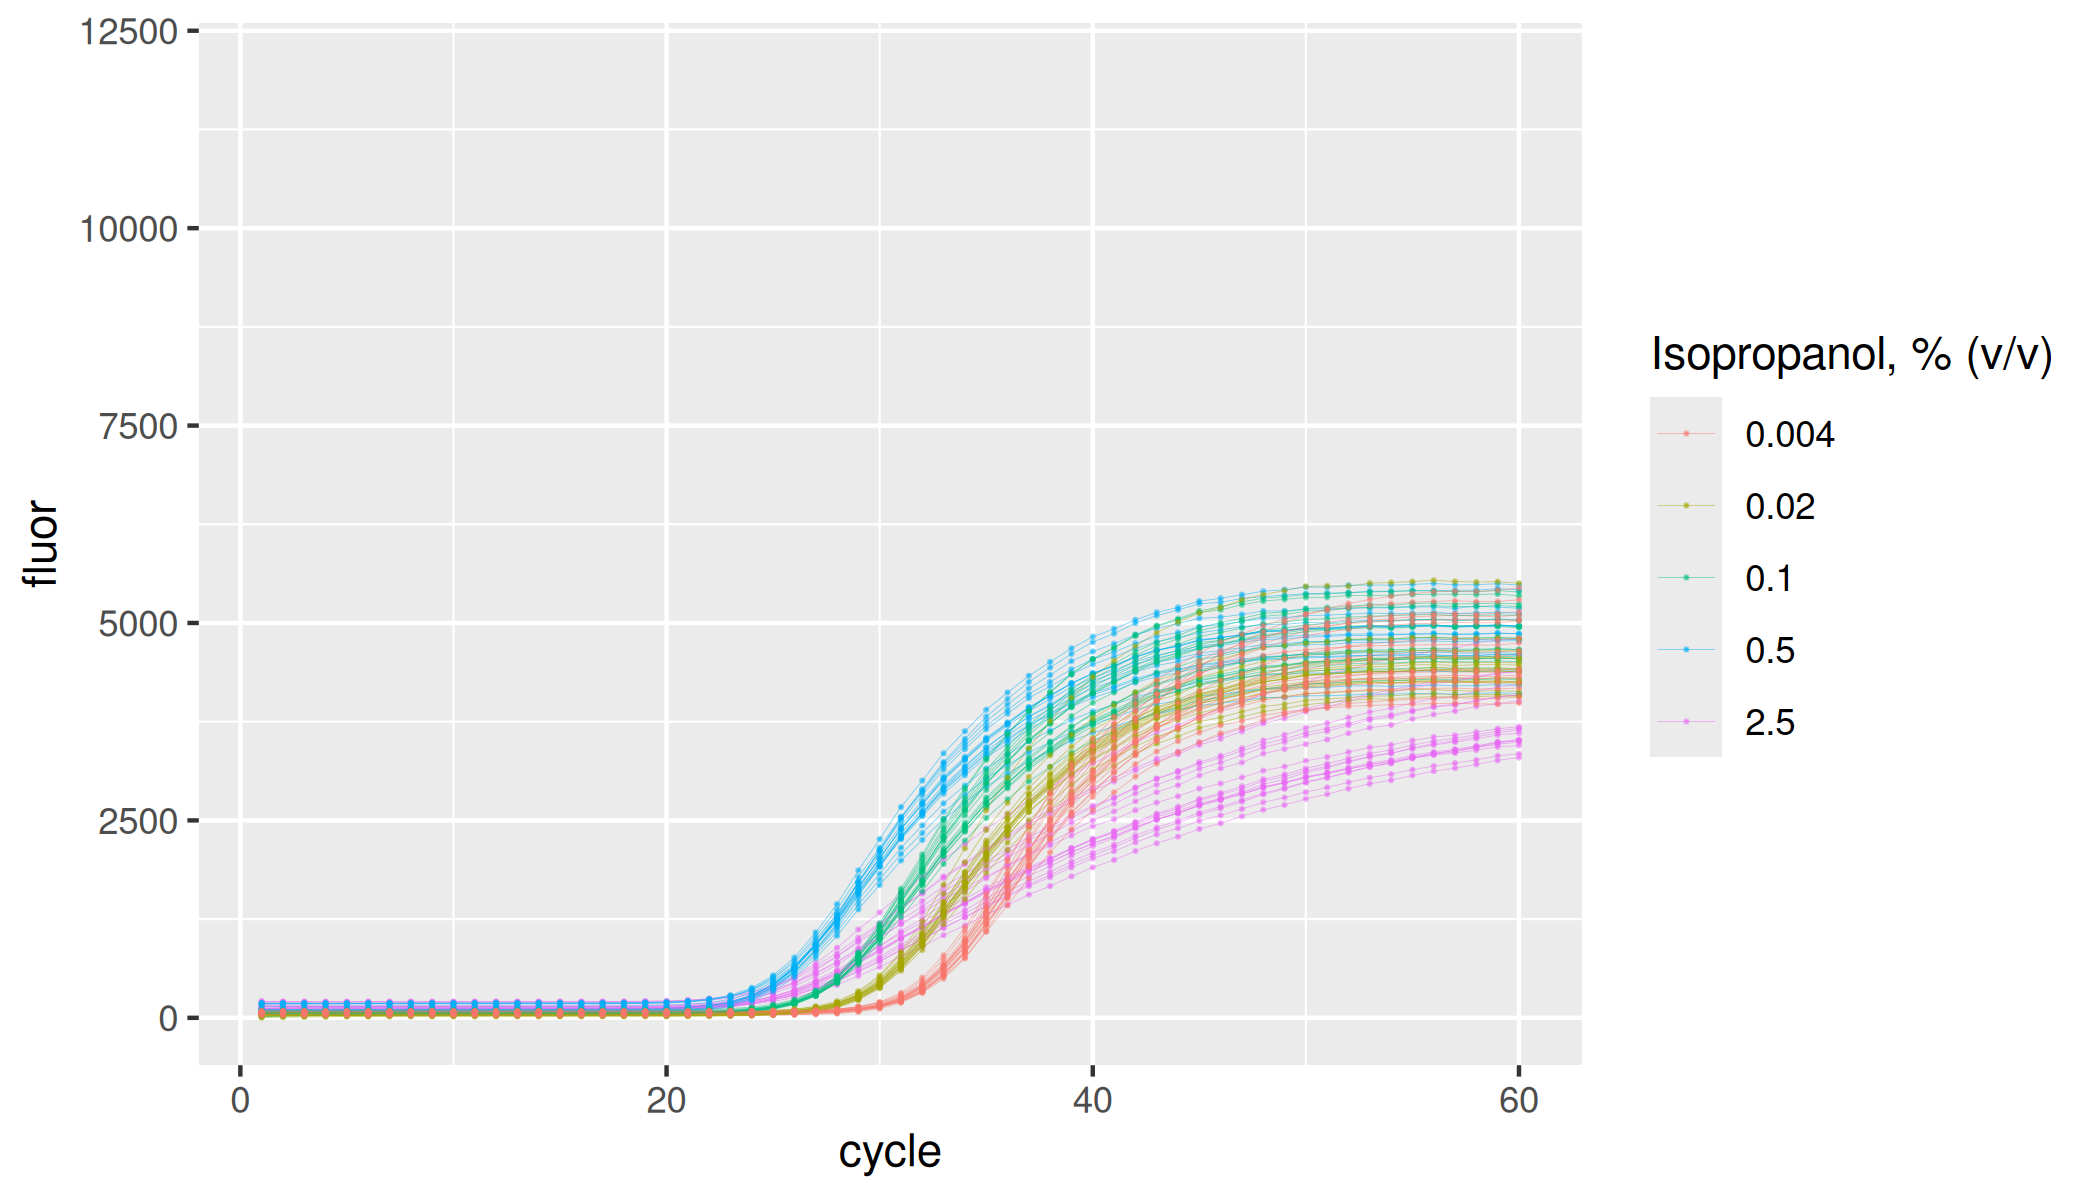
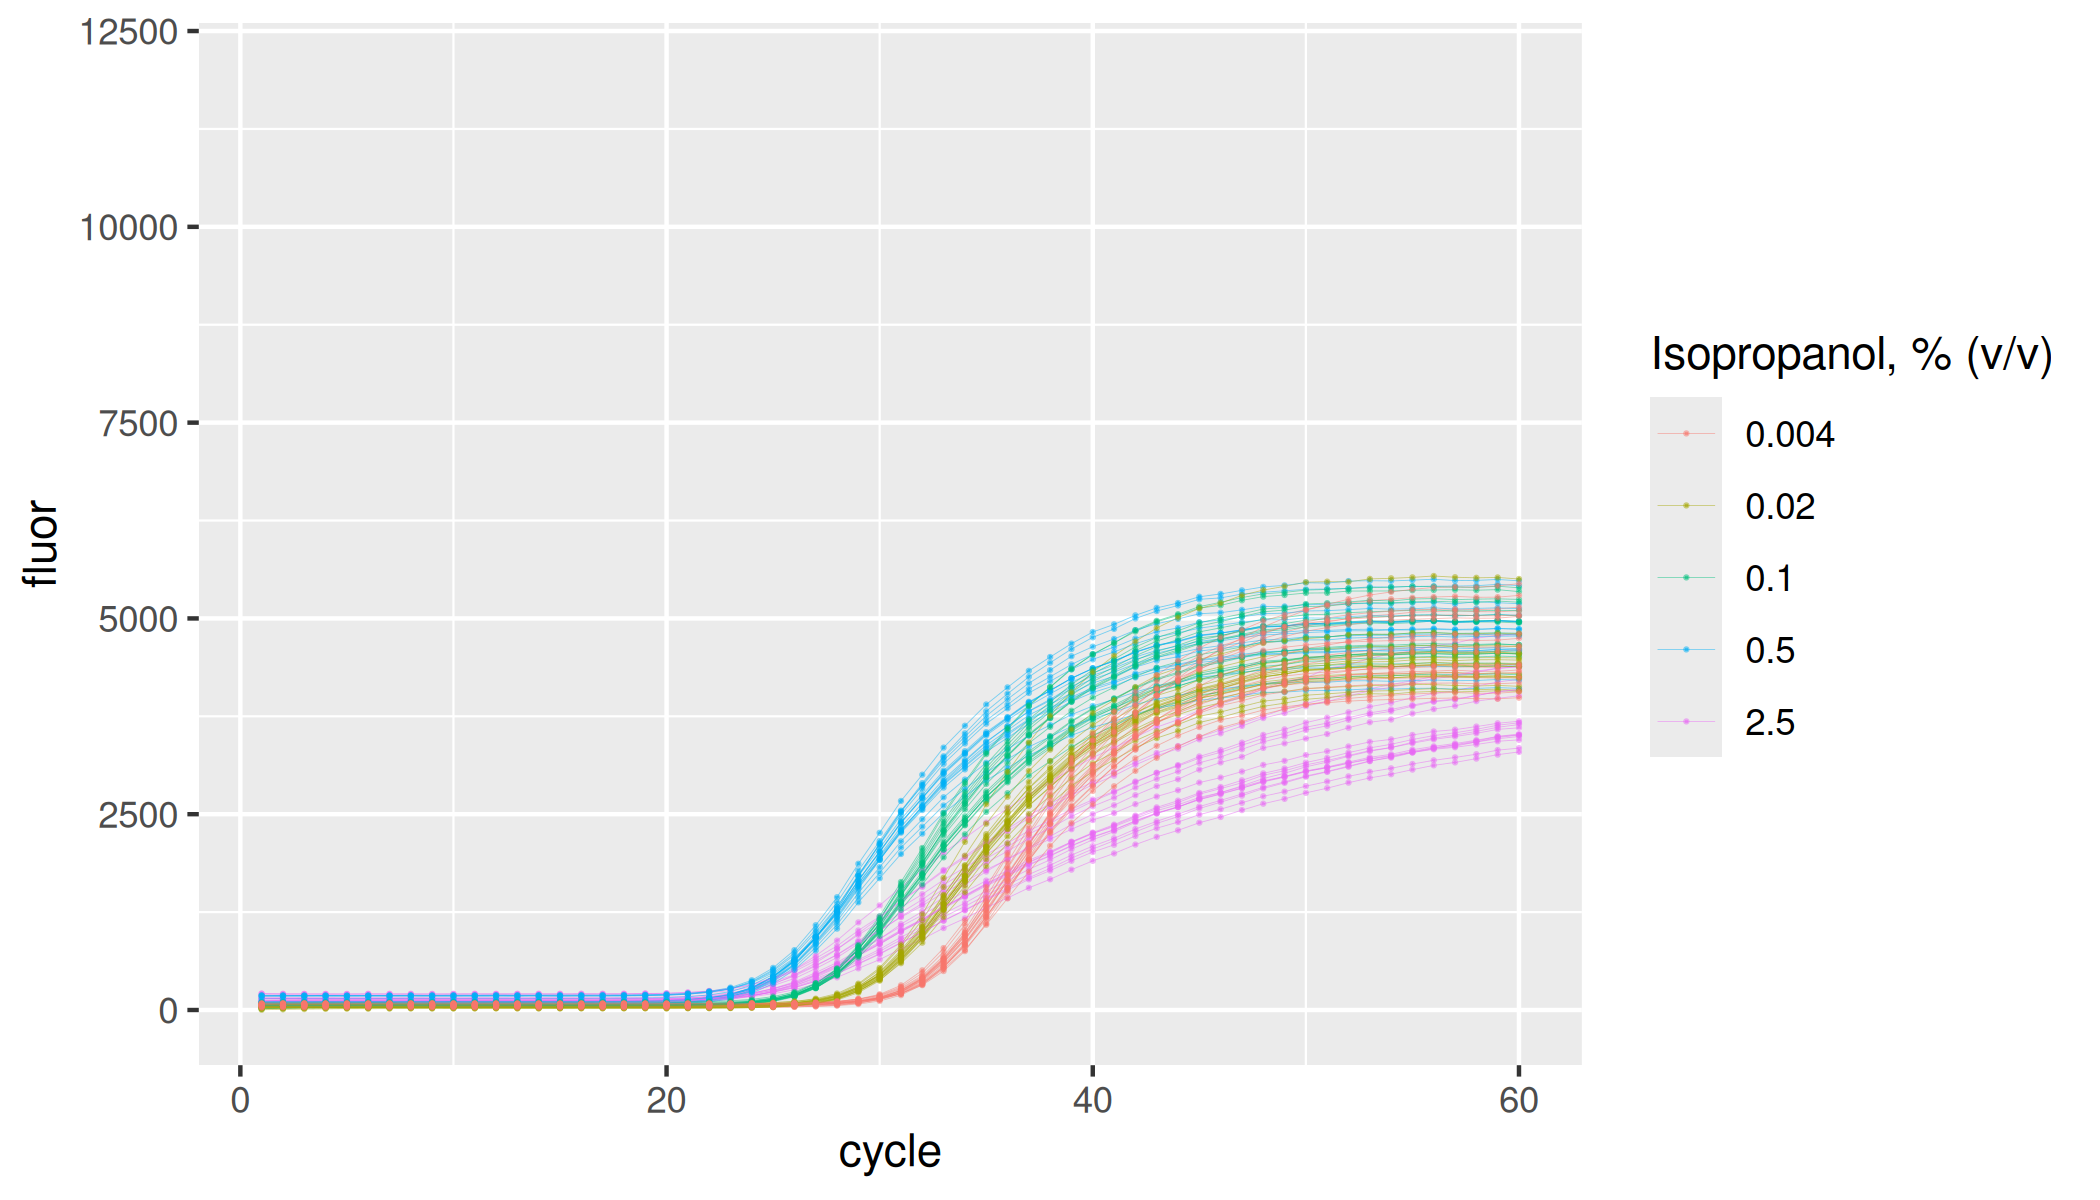
Update README
- Update units of tannic acid concentrations

diff --git a/README.md b/README.md
@@ -93,7 +93,7 @@ lievens |>
   geom_line(linewidth = 0.1, alpha = 0.5) +
   geom_point(size = 0.05, alpha = 0.5) +
   labs(color = "Fold dilution") +
-  ylim(0, 12000)
+  ylim(-100, 12000)
 ```
 
 <img src="man/figures/README-unnamed-chunk-4-1.png" width="100%" />
@@ -107,7 +107,7 @@ lievens |>
   geom_line(linewidth = 0.1, alpha = 0.5) +
   geom_point(size = 0.05, alpha = 0.5) +
   labs(color = "Isopropanol, % (v/v)") +
-  ylim(0, 12000)
+  ylim(-100, 12000)
 ```
 
 <img src="man/figures/README-unnamed-chunk-5-1.png" width="100%" />
@@ -120,12 +120,8 @@ lievens |>
   ggplot(aes(x = cycle, y = fluor, group = interaction(plate, inhibitor, inhibitor_conc, replicate), col = as.factor(inhibitor_conc))) +
   geom_line(linewidth = 0.1, alpha = 0.5) +
   geom_point(size = 0.05, alpha = 0.5) +
-  labs(color = "Tannic acid, mg/mL") +
-  ylim(0, 12000)
-#> Warning: Removed 74 rows containing missing values or values outside the scale range
-#> (`geom_line()`).
-#> Warning: Removed 74 rows containing missing values or values outside the scale range
-#> (`geom_point()`).
+  labs(color = "Tannic acid, ug/mL") +
+  ylim(-100, 12000)
 ```
 
 <img src="man/figures/README-unnamed-chunk-6-1.png" width="100%" />
